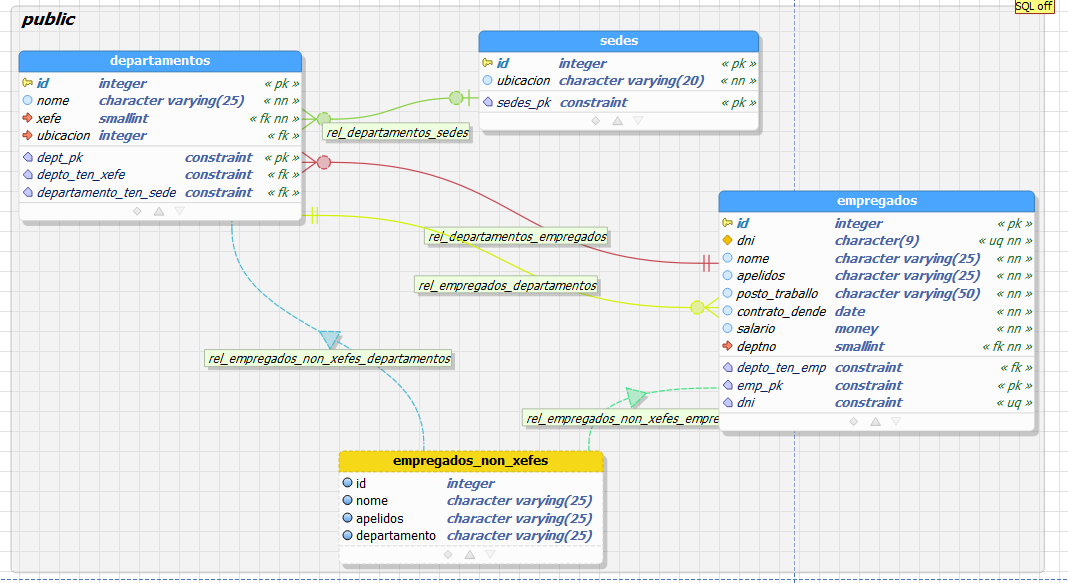
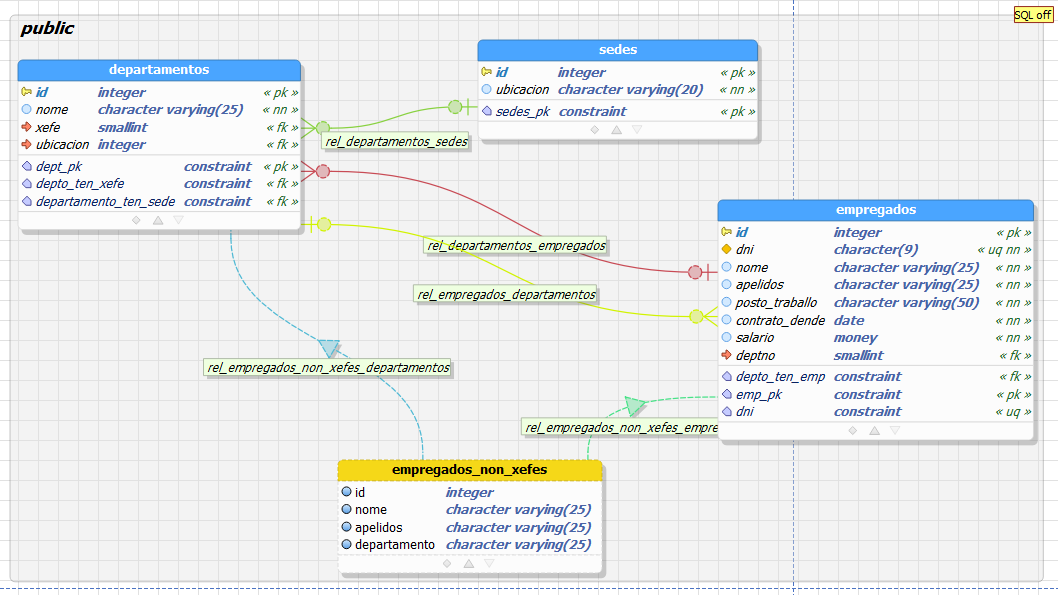
Modificada a estrutura da bbdd
Todas as chaves foráneas permiten null por se se borra a referencia que
teñen

Changed region(s): [[0.0, 0.0, 1.0, 1.0], [0.1871, 0.5557, 0.4367, 0.6484], [0.2495, 0.5249, 0.2807, 0.5557]]

diff --git a/README.md b/README.md
@@ -31,9 +31,10 @@ _DrogaPOP é un programa que xestiona unha base de datos con información sobre 
 
 ## Construído con
 A estrutura do programa creouse utilizando as seguintes ferramentas:
+- [Microsoft Paint](https://support.microsoft.com/es-es/windows/abrir-microsoft-paint-ead1dc5c-abc4-fd2c-d81e-ebb013fbc113) Editor de imaxes utilizado para realizar o deseño do modelo UML.
 - [PGModeler 0.9.4-beta1](https://pgmodeler.io/) Modelador de bases de datos PostgreSQL.
 - [pgAdmin 4 6.4](https://www.pgadmin.org/) Xestor de bases de datos PostgreSQL.
-- [PostgreSQL 13.5](https://www.postgresql.org/) Sistema de xestión de bases de datos relacionais orientado a obxectos.
+- [PostgreSQL 14](https://www.postgresql.org/) Sistema de xestión de bases de datos relacionais orientado a obxectos.
 - [Docker](https://www.docker.com/) Despliegue de aplicaciones dentro de contenedores de software.
 - [Hibernate ORM 5.6.4.Final](http://handlebarsjs.com/) Ferramenta de mapeo obxecto-relacional para Java.
 - [Apache NetBeans IDE 12.4](https://netbeans.apache.org/download/index.html) Entorno de desenvolvemento (IDE) para Java.
@@ -108,9 +109,9 @@ A primeira elección ao crear este software é escoller o sistema xestor de base
 **PostgreSQL** tén unha maior compatibilidade con API, un soporte máis económico e unha escalabilidade máis robusta.  Necesitamos unha base de datos fácil de usar que poida personalizar as operacións, cun custo total de propiedade baixo. Como administradores de bases de datos, cremos que é o sistema óptimo tendo en conta as características do proxecto.
 
 ### Estrutura da base de datos
-A estrutura da base de datos consta nun inicio de dúas táboas: Empregados e Departamentos. Estas táboas almacenarán tanto os departamentos coa súa ubicación e o empregado xefe de cada un deles como os empregados que traballan na empresa. 
+A estrutura da base de datos constaba nun inicio de dúas táboas: Empregados e Departamentos, no camiño de análise do problema houbo diversos cambios que deron noutra estrutura dos datos.
 
-Cada táboa tén a súa chave primaria que non se poderá repetir, isto terase en conta á hora de programar en Java. Tamén terán chaves foráneas xa que cada departamento ten un xefe que tén que estar na lista de empregados e cada empregado pertence a un departamento. Isto é importante porque hai que verirficar que o xefe do departamento sexa empregado e que o departamento existe cando se introduce un empregado.
+As novas táboas representan aos empregados, departamentos e as diferentes sedes da empresa. Cada táboa tén a súa chave primaria que non se poderá repetir, isto terase en conta á hora de programar en Java. Tamén terán chaves foráneas xa que cada departamento ten un xefe que tén que estar na lista de empregados e cada empregado pertence a un departamento. Isto é importante porque hai que verirficar que o xefe do departamento sexa empregado e que o departamento existe cando se introduce un empregado. Tamén temos que ter en conta de que o departamento se cree nunha sede xa existente, ou que se engada esta sede para que esta relación sexa completa.
 
 O **modelo Entidade-Relación** é o seguinte:
 ![Modelo ER DrogaPOP](https://raw.githubusercontent.com/PauloVazquezAcosta/DrogaPOP/readme/images/Modelo%20ER%20DrogaPOP.png)
@@ -119,10 +120,10 @@ As táboas na base de datos teñen os atributos que se mostran seguidamente, na 
 #### Táboa Departamentos
 | Nome de columna  | Tipo de dato SQL | Tipo de dato Java| Características|
 | ------------- | ------------- | ------------- | ------------- |
-| id  | smallint| int| Primary Key|
+| id  | serial| int| Primary Key|
 | nome  | character varying(25)  | String| Not NULL|
 | xefe| smallint| int| Foreign Key / Not NULL|
-| ubicacion  | character varying(20)  | String| Not NULL|
+| ubicacion  | integer  | String| Foreign Key|
 
 #### Táboa Empregados
 | Nome de columna  | Tipo de dato SQL | Tipo de dato Java| Características|
@@ -168,7 +169,7 @@ Non esquezas dar unha estrela ao proxecto. Grazas de novo!
 Distribuído baixo _[GNU General Public License](https://www.gnu.org/licenses/gpl-3.0.html)_. Ver [`LICENSE.md`](https://github.com/PauloVazquezAcosta/DrogaPOP/blob/readme/LICENSE.md) para máis información.
 
 ## Código de conduta
-Este Código de Conducta é unha adaptación do [Contributor Covenant](https://www.contributor-covenant.org/es/version/2/0/code_of_conduct.html), versión 2.0. Ver [`CONTRIBUTOR_COVENANT.md`](https://github.com/PauloVazquezAcosta/DrogaPOP/blob/readme/CODIGO_CONDUTA.md) para máis información.
+Este Código de Conducta é unha adaptación do [Contributor Covenant](https://www.contributor-covenant.org/es/version/2/0/code_of_conduct.html), versión 2.0. Ver [`CODIGO_CONDUTA.md`](https://github.com/PauloVazquezAcosta/DrogaPOP/blob/readme/CODIGO_CONDUTA.md) para máis información.
 
 
 ## Versionado 📌
@@ -188,4 +189,3 @@ Usamos [SemVer](https://semver.org/lang/es/) para o versionado. Para todas as ve
 * Dá as grazas publicamente. 🤓
 * Ponnos unha notaza de fin de curso por este Readme.
 * Dálle like a este proxecto :thumbsup:
-
